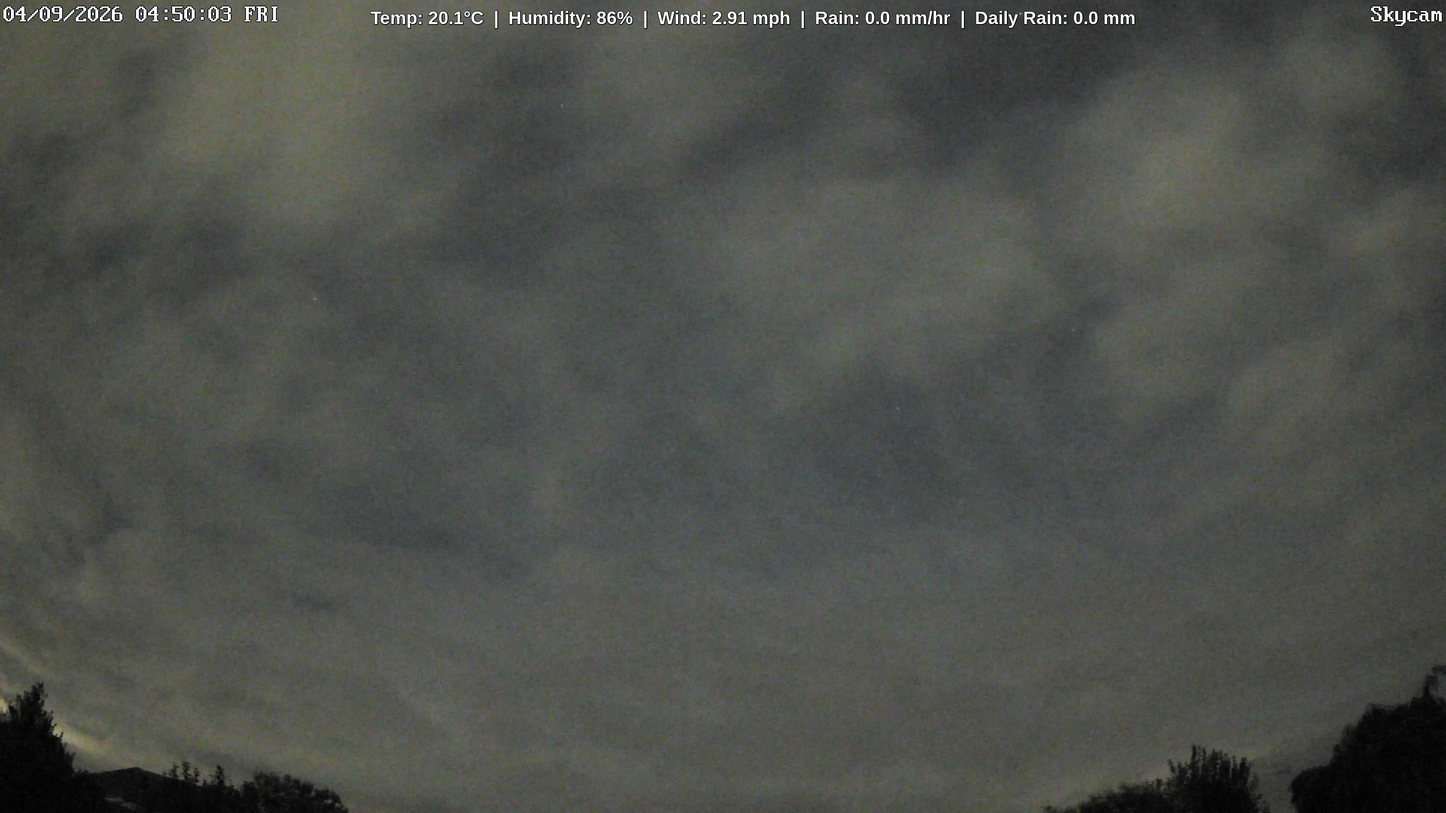
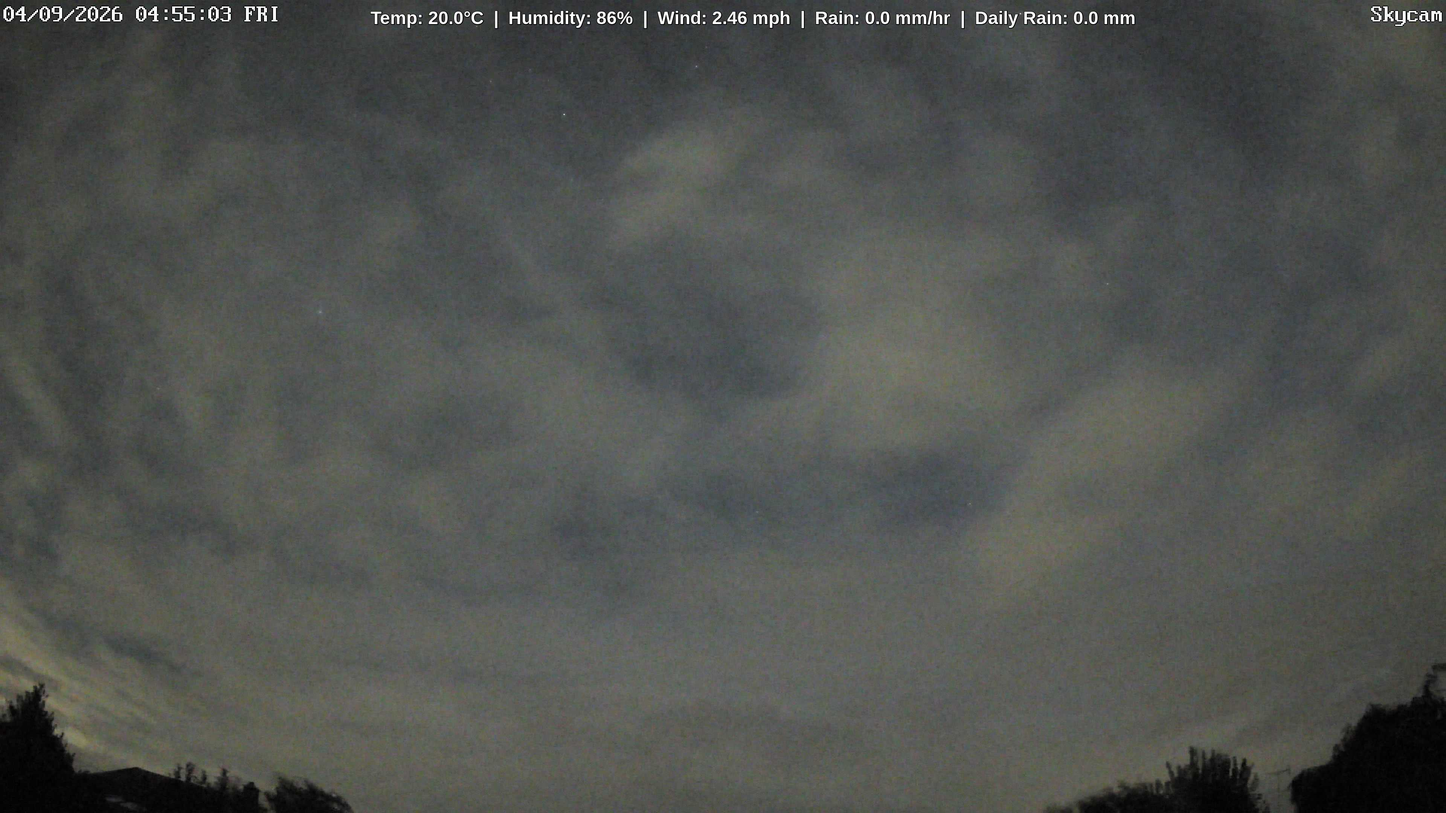
Update weather cam image with synchronized dual-layer weather metrics

diff --git a/index.html b/index.html
@@ -32,7 +32,7 @@
 </head>
 <body>
     <img id="weathercam" alt="Live Weather Snapshot">
-    <div class="banner">Temp: 20.1°C  |  Humidity: 86%  |  Wind: 2.91 mph  |  Rain: 0.0 mm/hr  |  Daily Rain: 0.0 mm</div>
+    <div class="banner">Temp: 20.0°C  |  Humidity: 86%  |  Wind: 2.46 mph  |  Rain: 0.0 mm/hr  |  Daily Rain: 0.0 mm</div>
 
     <script>
         // Shatter mobile cache engines by appending a live unique runtime timestamp 
